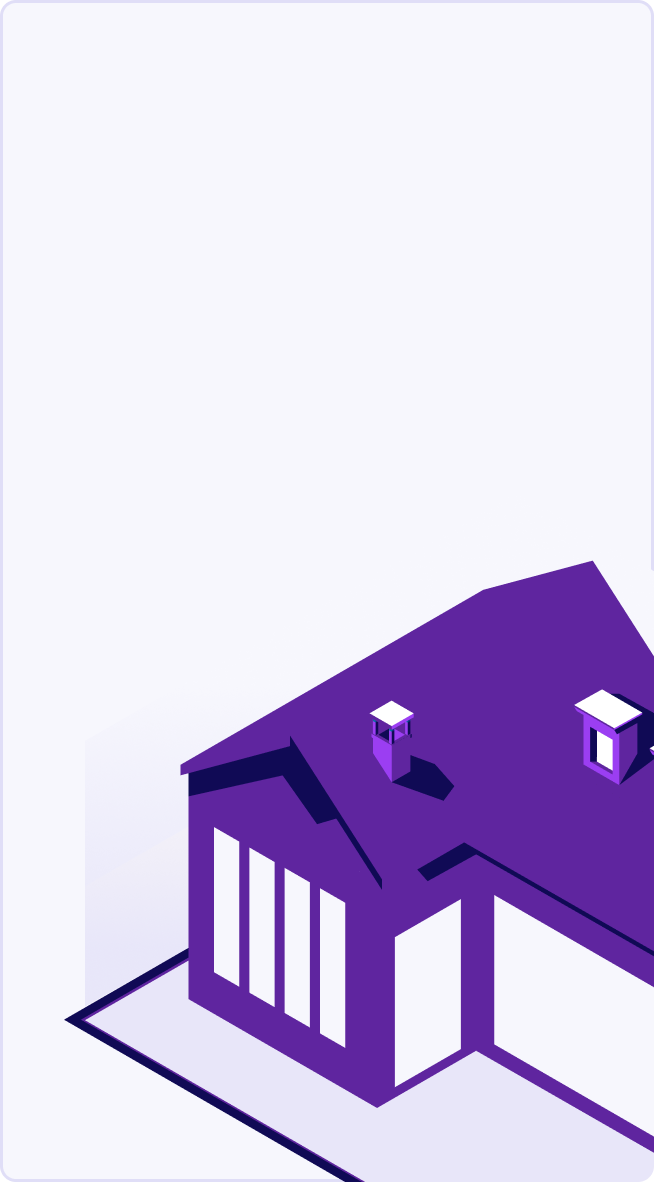
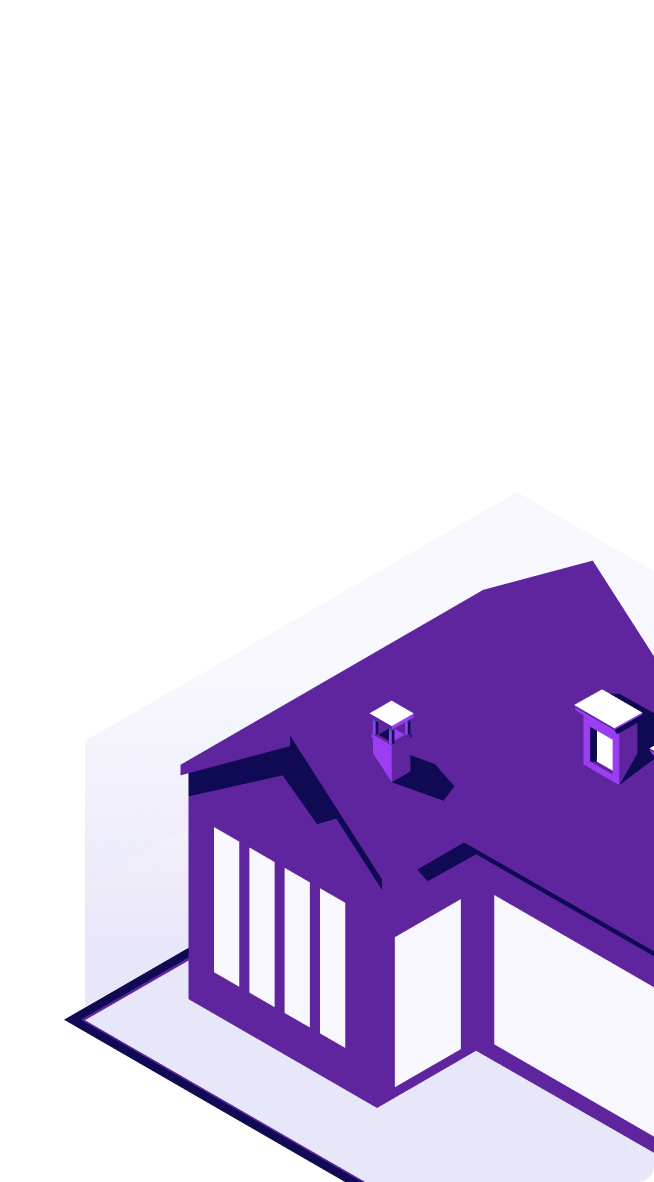
Add mobile bg

Changed region(s): [[0.0, 0.0, 0.0306, 1.0], [0.9786, 0.0, 1.0, 0.4873]]

diff --git a/src/pages/Home/landingpage.scss b/src/pages/Home/landingpage.scss
@@ -15,11 +15,13 @@
   .findNew {
     border-radius: 10px;
     border: 1px solid rgba(160, 156, 156, 0.2);
-    background: #f7f7fd;
+    background: #f7f7fd url('../../assets/images/mobileIllustration.png') bottom
+      center no-repeat;
+    background-size: contain;
     width: 95%;
     overflow: hidden;
     position: relative;
-    padding-bottom: 10em;
+    padding-bottom: 20em;
 
     .content {
       padding: 0.5em 1em;
@@ -36,6 +38,29 @@
     }
   }
 
+  @media screen and (min-width: 700px) {
+    h2 {
+      font-size: 2rem;
+    }
+    .findNew,
+    .beTheFirst {
+      text-align: start;
+    }
+
+    .findNew {
+      background: #f7f7fd;
+      padding-bottom: 0;
+      width: 90%;
+
+      .content {
+        padding: 2em 1em;
+      }
+
+      .homeImage {
+        padding: 2em 3em;
+      }
+    }
+  }
   @media screen and (min-width: 900px) {
     h2 {
       font-size: 2.5rem;
@@ -46,6 +71,7 @@
     }
 
     .findNew {
+      background: #f7f7fd;
       padding-bottom: 0;
       width: 80%;
 

diff --git a/src/pages/Home/LandingPage.jsx b/src/pages/Home/LandingPage.jsx
@@ -38,9 +38,9 @@ function LandingPage() {
           <figure data-aos='zoom-in' className='d-none d-md-flex'>
             <img src={homeIllustration} alt='' />
           </figure>
-          <figure className='d-flex d-md-none'>
+          {/* <figure className='d-flex d-md-none'>
             <img src={homeIllustration} alt='' className='mobileHome ' />
-          </figure>
+          </figure> */}
         </article>
       </section>
 
